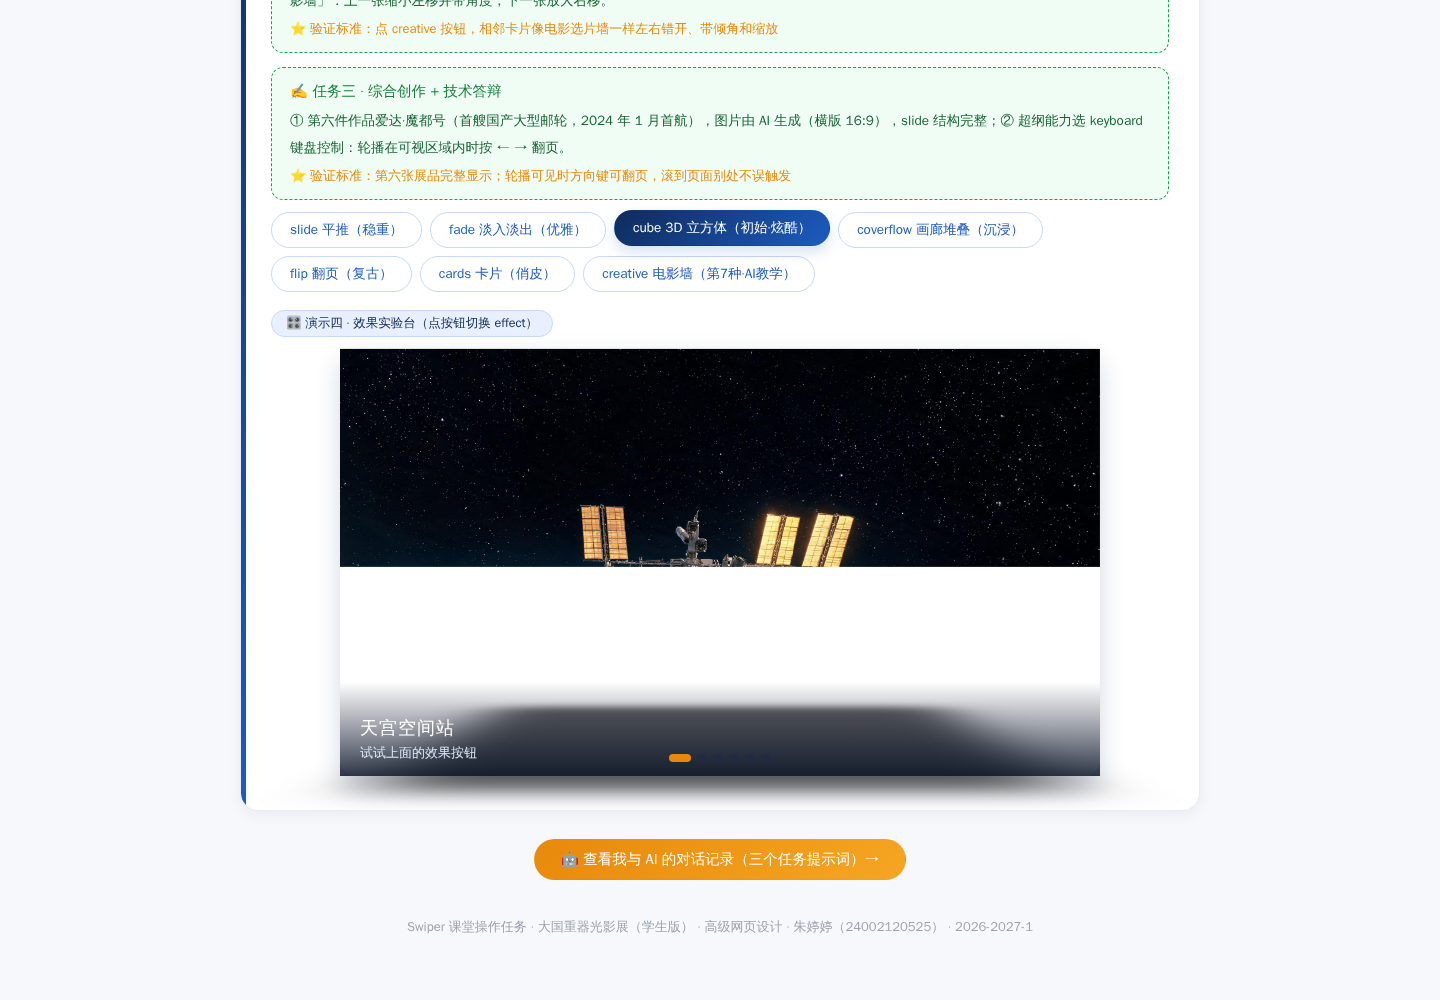
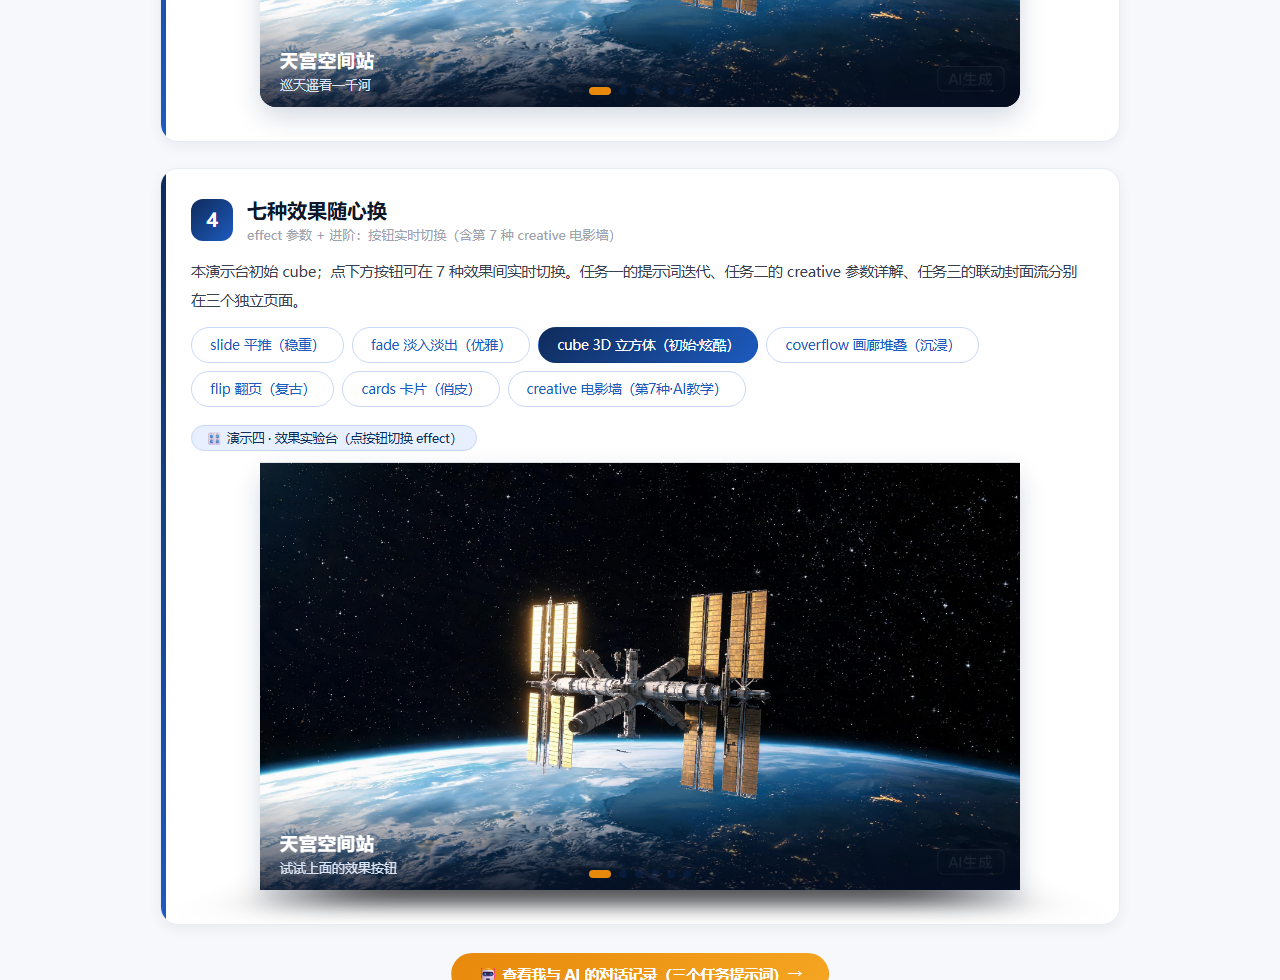
修复坏图与任务一两列裁切，重拍验证截图：
- tiangong_1.jpg / fuxing_1.jpg 原文件 JPEG 数据损坏（下半部棕色块 / 黑白条纹），重新生成 2560x1440 16:9 横版图
- task1.html 两轮对照改 minmax(0,1fr) + min-width:0，修复 Swiper 撑宽导致右列被容器裁掉
- 右侧读数不再被 autoplay 误标为已跳转，改由点击探针判定
- 重拍 docs 三张验证截图（原图含坏图与裁切）

diff --git a/swiper/task1.html b/swiper/task1.html
@@ -57,9 +57,10 @@
   .ztt-swiper .swiper-pagination-bullet-active{background:#e8890c;opacity:1;width:22px;border-radius:6px}
 
   /* 两轮对照 */
-  .ztt-compare{display:grid;grid-template-columns:1fr 1fr;gap:22px;margin-top:18px}
-  @media (max-width:760px){.ztt-compare{grid-template-columns:1fr}}
-  .ztt-compare-col{border:1px solid #e8ecf5;border-radius:16px;padding:18px 18px 20px;background:#fbfcff}
+  /* minmax(0,1fr) + min-width:0：防止 Swiper 内部 slides 撑开列宽，导致两列被容器裁掉 */
+  .ztt-compare{display:grid;grid-template-columns:minmax(0,1fr) minmax(0,1fr);gap:22px;margin-top:18px}
+  @media (max-width:760px){.ztt-compare{grid-template-columns:minmax(0,1fr)}}
+  .ztt-compare-col{min-width:0;border:1px solid #e8ecf5;border-radius:16px;padding:18px 18px 20px;background:#fbfcff}
   .ztt-col-head{display:flex;flex-wrap:wrap;align-items:center;gap:10px;margin-bottom:8px}
   .ztt-round{font-size:13px;font-weight:bold;color:#0f2b5b}
   .ztt-badge-bad{margin-left:auto;font-size:12.5px;color:#b91c1c;background:#fef2f2;border:1px solid #fecaca;border-radius:999px;padding:4px 12px}
@@ -252,11 +253,9 @@
     effect: 'cube',
     cubeEffect: { shadow: true, slideShadows: true }
   });
+  // 只更新索引；"已跳转"必须由下面点击探针判定，避免 autoplay 自动翻页误标为已跳转
   ztt_good.on('slideChange', function(){
     document.getElementById('zttGoodIdx').textContent = this.realIndex;
-    var g = document.getElementById('zttGoodState');
-    g.textContent = '已跳转';
-    g.className = 'ztt-good-txt';
   });
 
   // 点击圆点后比对点击前后索引：变了才算跳转，没变就是"只能看"
